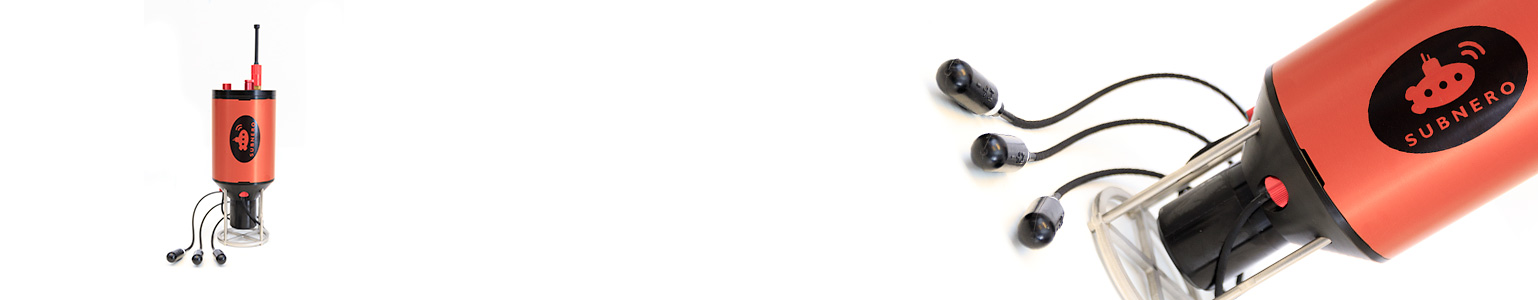
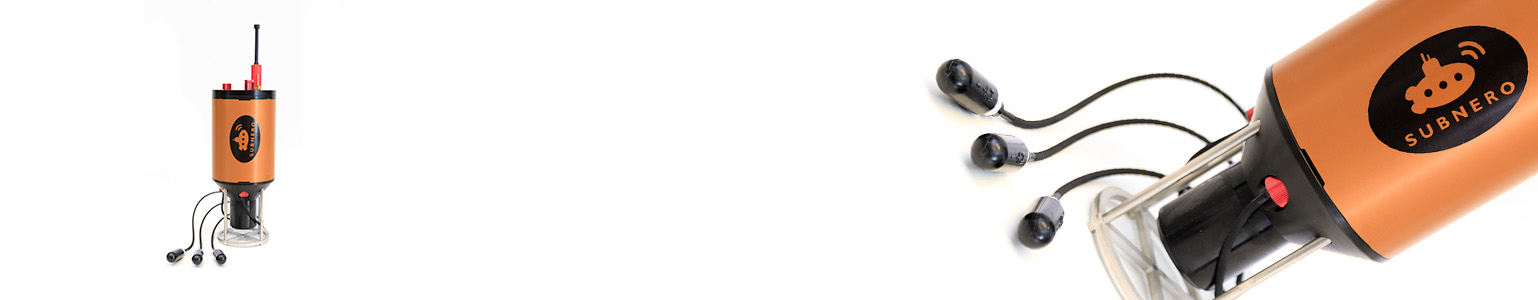
Updated more images to gen4

Changed region(s): [[0.8114, 0.0, 1.0, 0.84], [0.1248, 0.33, 0.1873, 0.6]]

diff --git a/_posts/2021-05-12-Subnero-Multi-channel-Modems.md b/_posts/2021-05-12-Subnero-Multi-channel-Modems.md
@@ -17,7 +17,7 @@ Now, imagine being able to use our modems to do things that were not possible pr
 
 Or, say you want to monitor and record the underwater soundscape, but also send events of interest back to a control station in real-time, or allow control of the recording device from the surface. It would be nice to have a single device that can allow recording using multiple synchronized receiving channels, but also be able to communicate with that device directly, without the need to attach an external modem.
 
-What if you have a single device that can do all of these functions in real-time? Today we are very excited to launch a new class of underwater acoustic modems, called the [Subnero multi-channel modems](https://subnero.com/products/wnc-m25mss3+xch.html). The multi-channel modems combine our silver edition M25M series modems, with a multi-channel acoustic recorder, thereby providing an acoustic modem with multiple synchronous receiving channels, without a significant change of the form factor. Configurable with up to 4 additional synchronous receiving channels, each channel can have a sampling rate of 128 or 256 kilo samples per second.
+What if you have a single device that can do all of these functions in real-time? Today we are very excited to launch a new class of underwater acoustic modems, called the [Subnero multi-channel modems](https://subnero.com/products/wnc-m25mss4+xch.html). The multi-channel modems combine our silver edition M25M series modems, with a multi-channel acoustic recorder, thereby providing an acoustic modem with multiple synchronous receiving channels, without a significant change of the form factor. Configurable with up to 4 additional synchronous receiving channels, each channel can have a sampling rate of 128 or 256 kilo samples per second.
 
 Out-of-the-box, you can use the multi-channel modems as a normal modem or a standalone acoustic recorder or both at the same time. The data collected from the additional receiving channels can be saved to the modem's internal storage to be downloaded later. The recordings can be scheduled before deployment or triggered remotely using specific signals there by making the multi-channel modems, ideal candidates for applications such as rapid environment assessment.
 

diff --git a/products/cables.md b/products/cables.md
@@ -68,26 +68,26 @@ excerpt: Additional storage for Subnero underwater acoustic modems.
             <td>W-00T10-10</td>
             <td>Underwater cable, 10 m</td>
             <td>Power, Ethernet</td>
-            <td><a href="{{site.baseurl}}/products/wnc-m25mss3">Silver Edition Standalone Configuration</a></td>
+            <td><a href="{{site.baseurl}}/products/wnc-m25mss4">Silver Edition Standalone Configuration</a></td>
           </tr>
           <tr>
             <td>W-00T10-15</td>
             <td>Underwater cable, 15 m</td>
             <td>Power, Ethernet</td>
-            <td><a href="{{site.baseurl}}/products/wnc-m25mss3">Silver Edition Standalone Configuration</a></td>
+            <td><a href="{{site.baseurl}}/products/wnc-m25mss4">Silver Edition Standalone Configuration</a></td>
           </tr>
           <tr>
             <td>W-00T10-25</td>
             <td>Underwater cable, 25 m</td>
             <td>Power, Ethernet</td>
-            <td><a href="{{site.baseurl}}/products/wnc-m25mss3">Silver Edition Standalone Configuration</a>
-              <br/><a href="{{site.baseurl}}/products/wnc-m25mrs3">Research Edition Standalone Configuration</a></td>
+            <td><a href="{{site.baseurl}}/products/wnc-m25mss4">Silver Edition Standalone Configuration</a>
+              <br/><a href="{{site.baseurl}}/products/wnc-m25mrs4">Research Edition Standalone Configuration</a></td>
           </tr>
           <tr>
             <td>W-00T10-30</td>
             <td>Underwater cable, 30 m</td>
             <td>Power, Ethernet</td>
-            <td><a href="{{site.baseurl}}/products/wnc-m25mss3">Silver Edition Standalone Configuration</a></td>
+            <td><a href="{{site.baseurl}}/products/wnc-m25mss4">Silver Edition Standalone Configuration</a></td>
           </tr>
         </table>
       </div>

diff --git a/products/hull.md b/products/hull.md
@@ -67,17 +67,17 @@ excerpt: Additional storage for Subnero underwater acoustic modems.
           <tr>
             <td>Aluminum</td>
             <td>300 m</td>
-            <td><a href="{{site.baseurl}}/products/wnc-m25mss3">Silver Edition Standalone Configuration</a></td>
+            <td><a href="{{site.baseurl}}/products/wnc-m25mss4">Silver Edition Standalone Configuration</a><br><a href="{{site.baseurl}}/products/wnc-m25mss4+xch">Silver Edition Multi-Channel Configuration Modem</a></td>
           </tr>
           <tr>
             <td>Stainless Steel</td>
             <td>2000 m</td>
-            <td><a href="{{site.baseurl}}/products/wnc-m25mss3">Silver Edition Standalone Configuration</a></td>
+            <td><a href="{{site.baseurl}}/products/wnc-m25mss4">Silver Edition Standalone Configuration</a></td>
           </tr>
           <tr>
             <td>Titanium</td>
             <td>4000 m</td>
-            <td><a href="{{site.baseurl}}/products/wnc-m25mse3">Silver Edition Standalone Configuration</a></td>
+            <td><a href="{{site.baseurl}}/products/wnc-m25mse4">Silver Edition Standalone Configuration</a></td>
           </tr>
         </table>
       </div>

diff --git a/_posts/2017-12-12-Underwater-modem-with-multiple-hydrophones.md b/_posts/2017-12-12-Underwater-modem-with-multiple-hydrophones.md
@@ -7,7 +7,7 @@ categories: wnc
 thumbnail: images/pulse-thumbnail-multichannel.jpg
 ---
 
-> This is a legacy product and is now replaced with the [multi-channel modems](https://subnero.com/products/wnc-m25mss3+xch.html). This product is not available for purchase anymore.
+> This is a legacy product and is now replaced with the [multi-channel modems](https://subnero.com/products/wnc-m25mss4+xch.html). This product is not available for purchase anymore.
 
 The Subnero underwater modems provide options for customization and extension at many levels. For a research application, a customer required 4 synchronized recordings of a received signal from carefully positioned hydrophones, everytime the signal was detected on the main hydrophone. In order to fulfill this requirement, we integrated 4 preamplifiers and a USB-1608G Series high-speed USB data acquisition system in our standard modem. A driver was developed (in C language) for the multi-channel acquisition system. This driver published its data to UnetStack using standard baseband recording messages, so that the customer's software could request these messages.
 

diff --git a/products/sensors.md b/products/sensors.md
@@ -75,13 +75,13 @@ excerpt: Additional sensors for Subnero underwater acoustic modems.
         <label class='lbl-toggle' for='compatibility'></label>
         <div class='collapsible-content'>
           <div class="brochure-container">
-            <a href="{{site.baseurl}}/products/wnc-m25mss3">Silver Edition Standalone Configuration Modem</a>
+            <a href="{{site.baseurl}}/products/wnc-m25mss4">Silver Edition Standalone Configuration Modem</a>
           </div>
           <div class="brochure-container">
-            <a href="{{site.baseurl}}/products/wnc-m25mso3">Silver Edition OEM Configuration Modem</a>
+            <a href="{{site.baseurl}}/products/wnc-m25mso4">Silver Edition OEM Configuration Modem</a>
           </div>
           <div class="brochure-container">
-            <a href="{{site.baseurl}}/products/wnc-m25mss3+xch">Silver Edition Multi-Channel Configuration Modem</a>
+            <a href="{{site.baseurl}}/products/wnc-m25mss4+xch">Silver Edition Multi-Channel Configuration Modem</a>
           </div>
         </div>
       </div>

diff --git a/products/storage.md b/products/storage.md
@@ -58,13 +58,13 @@ excerpt: Additional storage for Subnero underwater acoustic modems.
         <label class='lbl-toggle' for='compatibility'></label>
         <div class='collapsible-content'>
           <div class="brochure-container">
-            <a href="{{site.baseurl}}/products/wnc-m25mss3">Silver Edition Standalone Configuration Modem</a>
+            <a href="{{site.baseurl}}/products/wnc-m25mss4">Silver Edition Standalone Configuration Modem</a>
           </div>
           <div class="brochure-container">
-            <a href="{{site.baseurl}}/products/wnc-m25mse3">Silver Edition OEM Configuration Modem</a>
+            <a href="{{site.baseurl}}/products/wnc-m25mse4">Silver Edition OEM Configuration Modem</a>
           </div>
           <div class="brochure-container">
-            <a href="{{site.baseurl}}/products/wnc-m25mss3+xch">Silver Edition Multi-Channel Configuration Modem</a>
+            <a href="{{site.baseurl}}/products/wnc-m25mss4+xch">Silver Edition Multi-Channel Configuration Modem</a>
           </div>
         </div>
       </div>

diff --git a/products/coprocessor.md b/products/coprocessor.md
@@ -61,10 +61,13 @@ excerpt: Co-processor for Subnero underwater acoustic modems.
         <label class='lbl-toggle' for='compatibility'></label>
         <div class='collapsible-content'>
           <div class="brochure-container">
-            <a href="{{site.baseurl}}/products/wnc-m25mss3">Silver Edition Standalone Configuration Modem</a>
+            <a href="{{site.baseurl}}/products/wnc-m25mss4">Silver Edition Standalone Configuration Modem</a>
           </div>
           <div class="brochure-container">
-            <a href="{{site.baseurl}}/products/wnc-m25mse3">Silver Edition OEM Configuration Modem</a>
+            <a href="{{site.baseurl}}/products/wnc-m25mse4">Silver Edition OEM Configuration Modem</a>
+          </div>
+          <div class="brochure-container">
+            <a href="{{site.baseurl}}/products/wnc-m25mss4+xch">Silver Edition Multi-Channel Configuration Modem</a>
           </div>
         </div>
       </div>

diff --git a/products/interfaces.md b/products/interfaces.md
@@ -59,10 +59,10 @@ excerpt: Electrical interfaces for Subnero underwater acoustic modems
         <label class='lbl-toggle' for='compatibility'></label>
         <div class='collapsible-content'>
           <div class="brochure-container">
-            <a href="{{site.baseurl}}/products/wnc-m25mss3">Silver Edition Standalone Configuration Modem</a>
+            <a href="{{site.baseurl}}/products/wnc-m25mss4">Silver Edition Standalone Configuration Modem</a>
           </div>
           <div class="brochure-container">
-            <a href="{{site.baseurl}}/products/wnc-m25mse3">Silver Edition OEM Configuration Modem</a>
+            <a href="{{site.baseurl}}/products/wnc-m25mse4">Silver Edition OEM Configuration Modem</a>
           </div>
         </div>
       </div>
